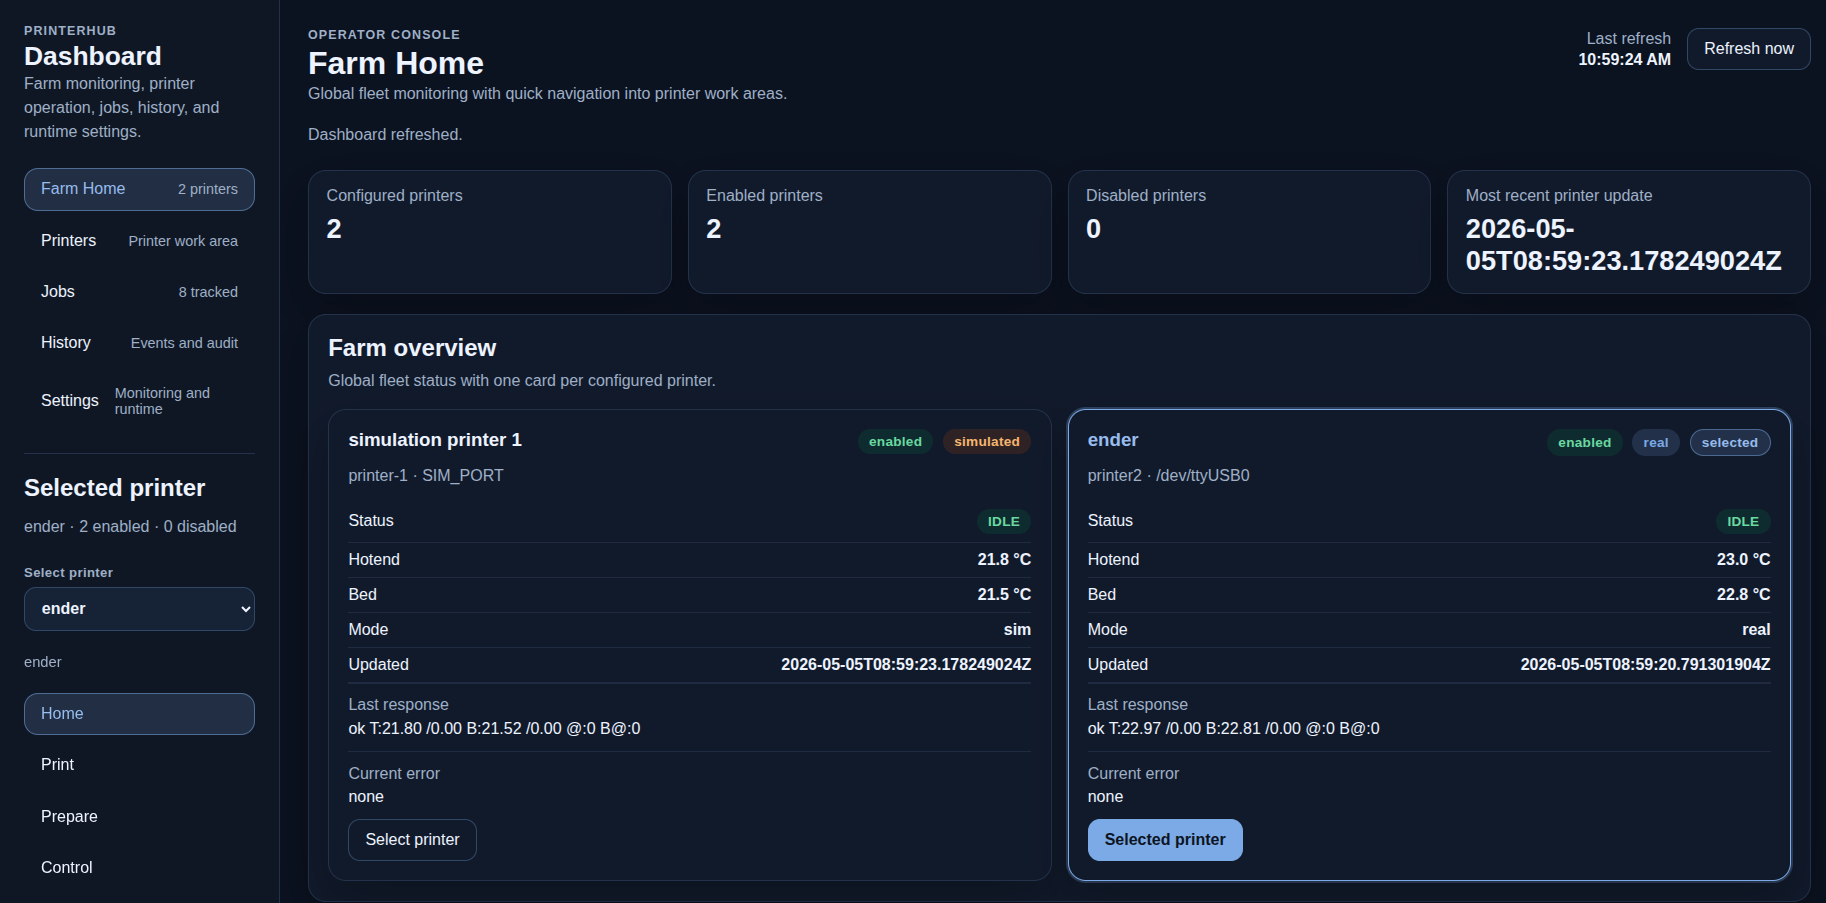
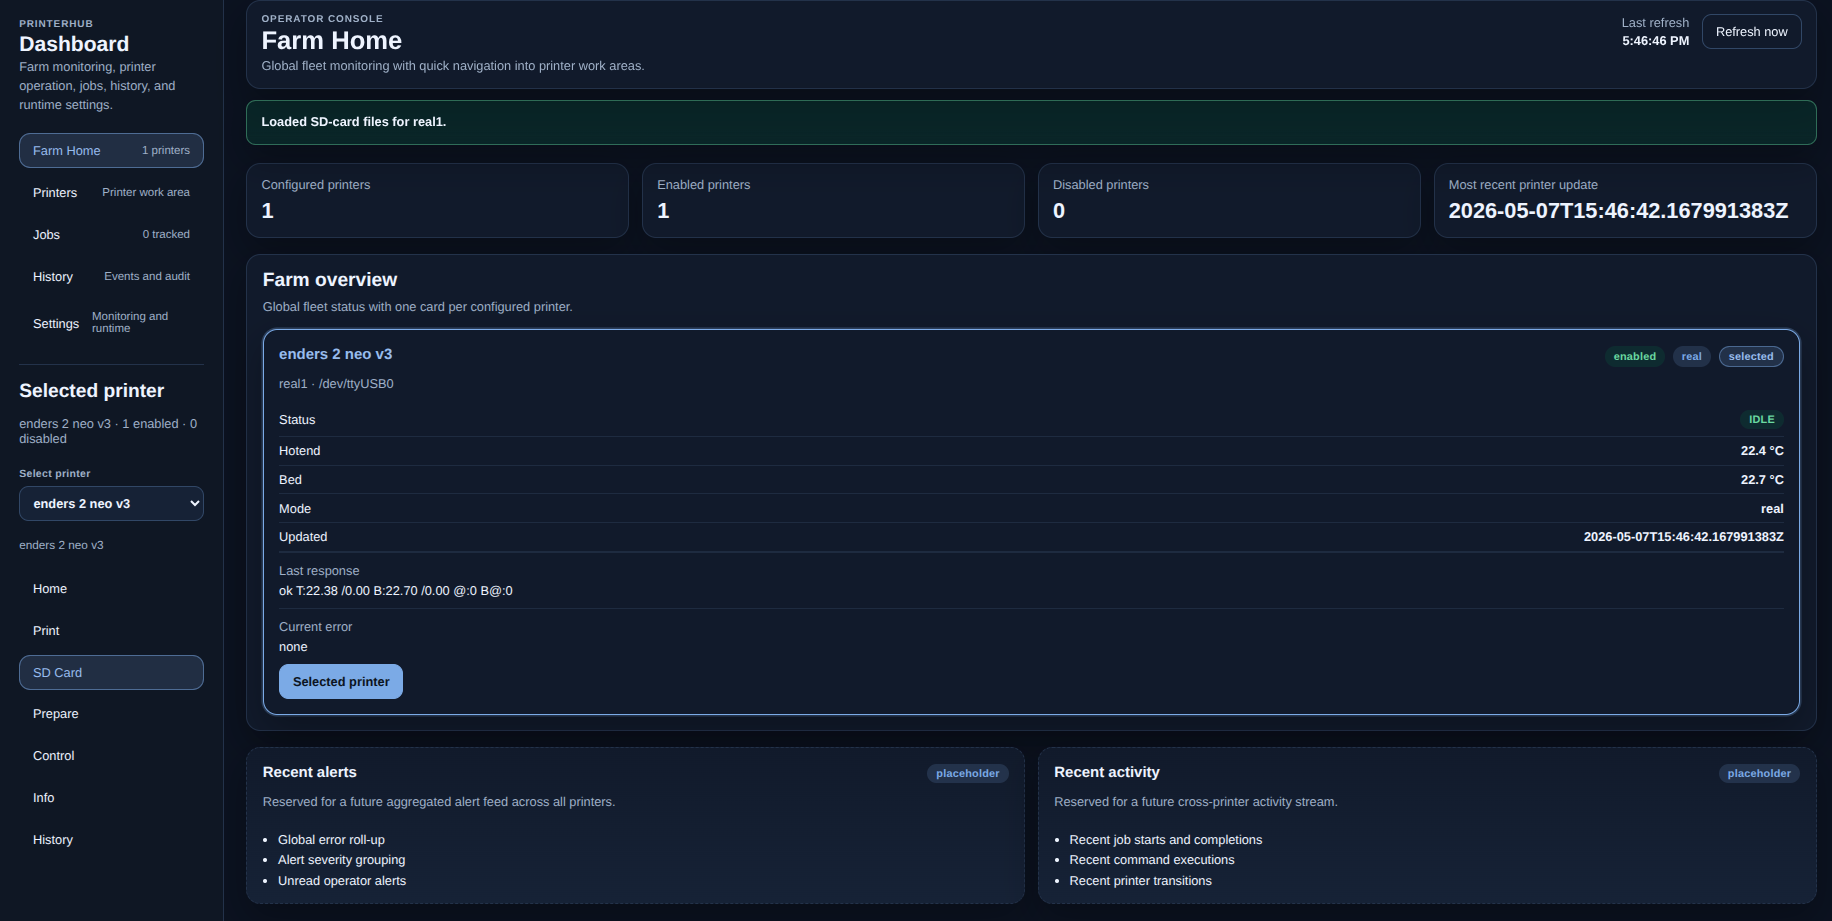
0.2.3 — step F — SD-card administration and guarded host-side G-code upload

diff --git a/README.md b/README.md
@@ -33,9 +33,11 @@ The current implementation provides:
 * SQLite persistence for printer configuration, monitoring rules, snapshots, events, jobs, and execution diagnostics
 * embedded dashboard with two-level navigation
 * selected-printer workspace inspired by the printer display logic
+* selected-printer SD Card administration for printer-side file discovery and host-side file preparation
 * controlled job-oriented actions instead of only raw direct command sending
 * asynchronous job start with bounded background execution
 * job history, printer history, execution events, and structured workflow-step diagnostics
+* guarded host-to-printer SD-card `.gcode` upload for the verified real-printer Marlin path
 * simulation modes for normal and failing printer behavior
 * Jenkins CI verification and runtime smoke tests
 
@@ -177,9 +179,9 @@ This structure is designed to stay aligned with the practical logic of operating
       <sub>Farm Home</sub>
     </td>
     <td align="center">
-      <img src="docs/assets/media-src/screenshot-printerhub-dashboard-02.png" alt="PrinterHub dashboard jobs view" width="100%">
+      <img src="docs/assets/media-src/screenshot-printerhub-dashboard-02.png" alt="SD card management" width="100%">
       <br>
-      <sub>Jobs</sub>
+      <sub>SD card management</sub>
     </td>
   </tr>
   <tr>
@@ -198,6 +200,17 @@ This structure is designed to stay aligned with the practical logic of operating
 
 The dashboard is part of the local runtime architecture and reads through the API layer.
 
+The **SD Card** view now owns:
+
+* printer-side SD file listing
+* registration of printer-side printable targets
+* enable / disable of registered printable targets
+* host-side `.gcode` registration and upload
+* guarded copy of a host-side `.gcode` file to the selected printer SD card
+
+The **Print** view now creates `PRINT_FILE` jobs only from already registered
+printer-side file targets.
+
 ---
 
 ## Jobs and controlled actions
@@ -215,8 +228,10 @@ What is already available:
 * job event visibility
 * job execution result visibility
 * structured execution-step diagnostics
-* host-side `.gcode` print-file registration and dashboard upload
-* file-backed `PRINT_FILE` jobs represented as prepared metadata
+* host-side `.gcode` print-file registration and dashboard upload through the SD Card workflow
+* printer-side SD file discovery, registration, and enable/disable management
+* guarded host-to-printer SD-card `.gcode` upload
+* file-backed `PRINT_FILE` jobs created from registered printer-side SD targets
 * controlled real-printer action workflows for selected action types
 
 Current controlled action scope:
@@ -233,7 +248,25 @@ TURN_FAN_OFF
 PRINT_FILE
 ```
 
-`PRINT_FILE` jobs reference an already prepared `.gcode` file on the PrinterHub host. PrinterHub can register an existing host path or save a dashboard-uploaded file into the configured print-file storage directory. It validates and persists the file metadata, but it does not slice, edit, or stream the G-code in this version.
+`PRINT_FILE` jobs now reference a registered printer-side SD target. PrinterHub
+can register an existing host path or save a dashboard-uploaded file into the
+configured print-file storage directory, then copy that host-side file to the
+selected printer SD card through a guarded upload session. It validates and
+persists the file metadata, but it does not slice, edit, or line-stream a full
+print in this version.
+
+Current limitation:
+
+* PrinterHub can prepare and upload a file to the printer SD card, but it does
+  not yet start the autonomous print from that SD target. That print-start
+  workflow is the next step.
+
+Real-printer note:
+
+* the currently verified SD-upload path was tested against an Ender 2 Neo V3
+  style Marlin behavior
+* on that path, PrinterHub uses a dedicated numbered/checksummed upload session
+  instead of the normal single-command request/response path
 
 Job start behavior:
 
